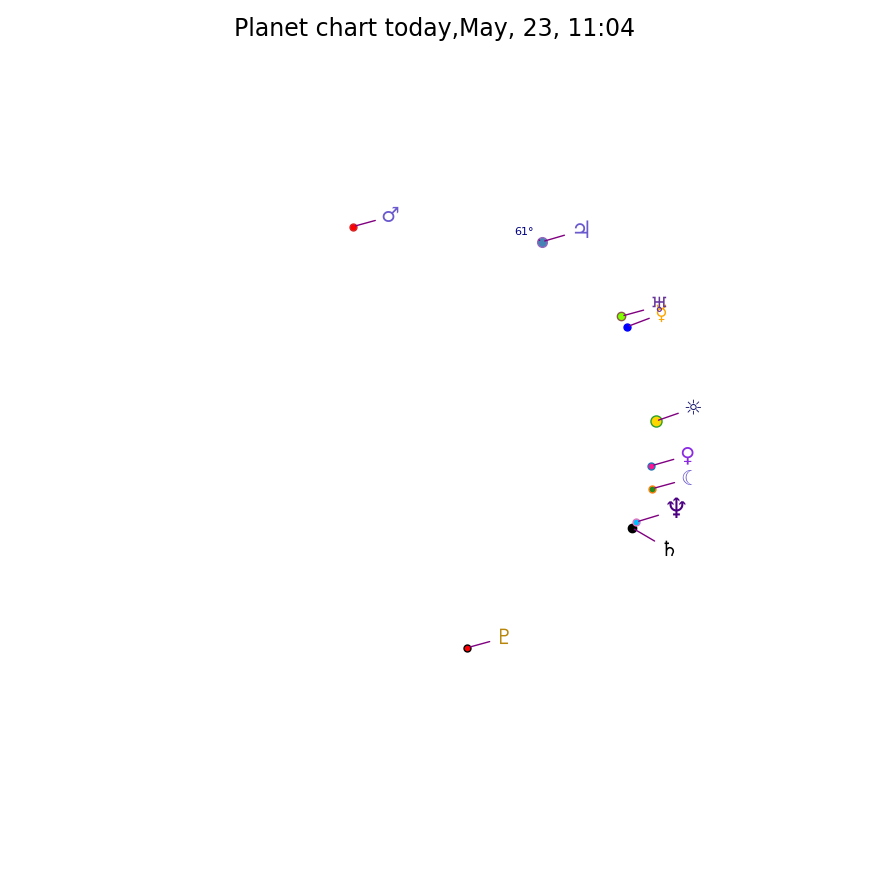
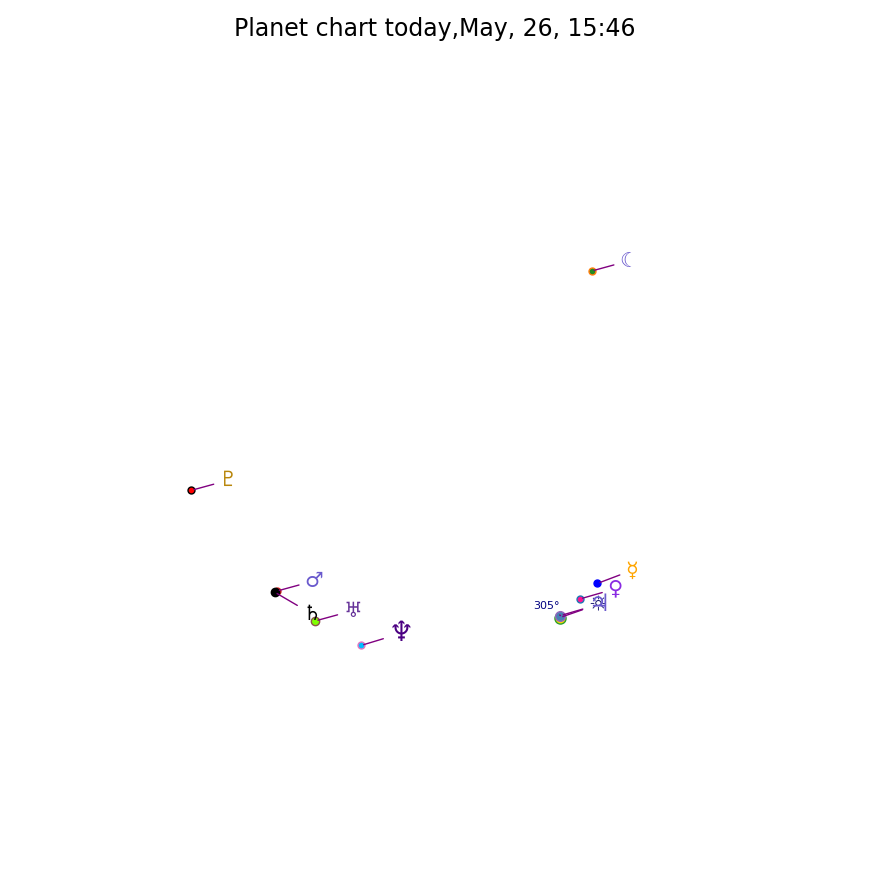
added transit_chart.html, birth_chart.html, and started working on table with degrees

diff --git a/astroplan/templates/birth_chart.html b/astroplan/templates/birth_chart.html
@@ -1,0 +1,35 @@
+{%  load static %}
+
+<!DOCTYPE html>
+<html lang="en">
+<head>
+    <meta charset="UTF-8">
+     <link rel="stylesheet" href="{% static 'styles/style.css' %}">
+    <title>Birth chart</title>
+</head>
+<body>
+
+ <div id="chart">
+       <div id="img-layers">
+
+            <img src="{% static 'plots/birth_plot.png' %}" alt = "birth chart" id="birth-chart">
+<!--           <img src="{% static 'plots/chart.png' %}" alt="plot" id="chart-plot">-->
+
+            <img src="{% static 'images/12.png' %}" alt = "chart axes" id="chart-axes">
+
+
+           <table id="planet-list" >
+                {% for p in r_deg %}
+               <tr>
+                   <th> {{ p }}</th>
+               </tr>
+               {% endfor %}
+           </table>
+        </div>
+
+ </div>>
+
+
+
+</body>
+</html>

diff --git a/astroplan/templates/transit_chart.html b/astroplan/templates/transit_chart.html
@@ -4,27 +4,24 @@
 <html lang="en">
 <head>
     <meta charset="UTF-8">
-    <meta name="viewport" content="width=device-width, initial-scale=1.0">
     <link rel="stylesheet" href="{% static 'styles/style.css' %}">
-    <title>Planets</title>
+    <title>Transits</title>
 </head>
 <body>
 
+ <div id="chart">
 
-    <div id="chart">
+        <div id="img-layers">
 
-        <div id="img-layers"> 
-            <img src="{% static 'plots/chart.png' %}" alt="plot" id="chart-plot">
+            <img src="{% static 'plots/chart.png' %}" alt = "chart" id="transit-chart">
             <img src="{% static 'images/12.png' %}" alt = "chart axes" id="chart-axes">
-
         </div>
 
-        
+
 
     </div>
-   
 
 
-    
+
 </body>
 </html>

diff --git a/astroplan/static/styles/style.css b/astroplan/static/styles/style.css
@@ -38,7 +38,29 @@
     z-index: 1;
 
 
+}
+
+#transit-chart {
+    position: absolute;
+    z-index: 2;
+    margin:auto;
+
+}
 
 
+#birth-chart {
+    position: absolute;
+    z-index: 2;
+    margin:auto;
 
+}
+
+
+#planet-list {
+
+    width: 100%;
+}
+
+th {
+    height: 20px;
 }

diff --git a/astroplan/views.py b/astroplan/views.py
@@ -18,16 +18,19 @@ planet_list = ['sun','mercury','venus', 'moon', 'mars',
                  'jupiter','saturn', 'uranus', 'neptune','pluto']
 
 now = dt.now()
-date = dt(2025, 4,18, 12,00 )
+date = dt(1986, 2,17, 22,20 )
 jd_date = jl.to_jd(date,fmt='jd')
 
 jd = jl.to_jd(now, fmt='jd')
 flags =  swe.FLG_SIDEREAL | swe.SIDM_DELUCE 
 
-sun = swe.calc_ut(jd_date, 0, flags)
+sun = swe.calc_ut(jd, 0, flags)
 print(sun[0][0])
 
+
 moon = swe.calc_ut(jd, 1, flags)
+
+
 
 mercury = swe.calc_ut(jd,2, flags)
 venus = swe.calc_ut(jd, 3, flags)
@@ -62,7 +65,7 @@ def show_chart(request):
     height = 0.9
     ax1 = fig.add_axes([left, bottom, width, height], projection='polar') #center plot
     # ax1.set_theta_offset()
-    mplcursors.cursor(hover=True)
+
     ax1.set_rlim(-130,100)
     ax1.set_theta_direction('counterclockwise')
     ax1.set_rticks([])
@@ -139,8 +142,6 @@ def show_chart(request):
     # plt.grid(True, color='pink') grid on
 
     plt.grid(False)
-    mplcursors.cursor(hover=True)
-
 
     plt.savefig('/home/gaia/PythonProject/astroapp/astroknow/astroplan/static/plots/chart.png')  #aplha setting isn't applied if a plot saved to jpg
     swe.close()
@@ -148,4 +149,246 @@ def show_chart(request):
  
     return render (request,'planets.html')
 
+def show_transit_chart(request):
 
+
+    px = 1 / plt.rcParams['figure.dpi']
+    fig = plt.figure(figsize=(870 * px, 870 * px), facecolor='violet', edgecolor='black')
+    fig.suptitle(f'Transit chart,{now.strftime('%B, %d, %H:%M')}', size=17)
+    fig.patch.set_alpha(0.0)
+
+    left = 0.05
+    bottom = 0.05
+    width = 0.9
+    height = 0.9
+    ax1 = fig.add_axes([left, bottom, width, height], projection='polar')  # center plot
+    # ax1.set_theta_offset()
+
+    ax1.set_rlim(-130, 100)
+    ax1.set_theta_direction('counterclockwise')
+    ax1.set_rticks([])
+    ax1.set_axis_off()  # 'theta ax' is off
+    ax1.set_thetagrids(range(0, 360, 30))
+
+    # ax2 = plt.subplot(1, 1, 1, projection='polar')
+    # ax2.set_theta_offset(np.pi)
+    # ax2.set_rlim(-180,100)
+    # ax2.set_theta_direction(-1)
+    # ax2.set_rticks([])
+
+    ax1.plot(np.deg2rad(venus[0][0]), venus[0][1], marker='o', label='venus', ms=5, mfc='deeppink')
+    ax1.annotate('♀', textcoords='offset points', xytext=(20, 3), xycoords='data',
+                 xy=(np.deg2rad(venus[0][0]), venus[0][1]), fontsize=15, color='blueviolet',
+                 arrowprops=dict(facecolor='purple', arrowstyle='-', edgecolor='purple'))
+
+    ax1.plot(np.deg2rad(moon[0][0]), moon[0][1], marker='o', label='moon', mfc='forestgreen', ms=5)
+    ax1.annotate('☾', textcoords='offset points', xytext=(20, 3), xycoords='data',
+                 xy=(np.deg2rad(moon[0][0]), moon[0][1]), fontsize=15, color='slateblue',
+                 arrowprops=dict(facecolor='purple', arrowstyle='-', edgecolor='purple'))
+
+    ax1.plot(np.deg2rad(sun[0][0]), sun[0][1], marker='o', label='sun', ms=8, mfc='gold')
+    ax1.annotate('☼', textcoords='offset points', xytext=(20, 5), xycoords='data',
+                 xy=(np.deg2rad(sun[0][0]), sun[0][1]), fontsize=15, color='midnightblue',
+                 arrowprops=dict(facecolor='purple', arrowstyle='-', edgecolor='purple'))
+
+    ax1.plot(np.deg2rad(mercury[0][0]), mercury[0][1], 'o:b', label='merc', ms=5)
+    ax1.annotate('☿', textcoords='offset points', xytext=(20, 5), xycoords='data',
+                 xy=(np.deg2rad(mercury[0][0]), mercury[0][1]), fontsize=15, color='orange',
+                 arrowprops=dict(facecolor='purple', arrowstyle='-', edgecolor='purple'))
+
+    ax1.plot(np.deg2rad(mars[0][0]), mars[0][1], marker='o', label='mars', ms=5, mfc='red')
+    ax1.annotate('♂', textcoords='offset points', xytext=(20, 3), xycoords='data',
+                 xy=(np.deg2rad(mars[0][0]), mars[0][1]), fontsize=15, color='slateblue',
+                 arrowprops=dict(facecolor='purple', arrowstyle='-', edgecolor='purple'))
+
+    ax1.plot(np.deg2rad(jupiter[0][0]), jupiter[0][1], 'o', label='jupiter', ms=7, mfc='steelblue')
+    ax1.annotate('♃', textcoords='offset points', xytext=(20, 3), xycoords='data',
+                 xy=(np.deg2rad(jupiter[0][0]), jupiter[0][1]), fontsize=17, color='slateblue',
+                 arrowprops=dict(facecolor='purple', arrowstyle='-', edgecolor='purple'))
+
+    ax1.annotate(f'{round(jupiter[0][0])}°', textcoords='offset points', xytext=(-20, 5), xycoords='data',
+                 xy=(np.deg2rad(jupiter[0][0]), jupiter[0][1]), fontsize=8, color='navy',
+                 arrowprops=dict(facecolor='purple', arrowstyle='-', edgecolor='purple'))
+
+    ax1.plot(np.deg2rad(saturn[0][0]), saturn[0][1], 'o:k', label='saturn', ms=6)
+    ax1.annotate('♄', textcoords='offset points', xytext=(20, -20), xycoords='data',
+                 xy=(np.deg2rad(saturn[0][0]), saturn[0][1]), fontsize=15,
+                 arrowprops=dict(facecolor='purple', arrowstyle='-', edgecolor='purple'))
+
+    ax1.plot(np.deg2rad(uranus[0][0]), uranus[0][1], marker='o', mfc='chartreuse', label='uranus', ms=6)
+    ax1.annotate('♅', textcoords='offset points', xytext=(20, 3), xycoords='data',
+                 xy=(np.deg2rad(uranus[0][0]), uranus[0][1]), fontsize=15, color='rebeccapurple',
+                 arrowprops=dict(facecolor='purple', arrowstyle='-', edgecolor='purple'))
+
+    ax1.plot(np.deg2rad(neptune[0][0]), neptune[0][1], marker='o', label='neptune', ms=5, mfc='deepskyblue')
+    ax1.annotate('♆', textcoords='offset points', xytext=(20, 3), xycoords='data',
+                 xy=(np.deg2rad(neptune[0][0]), neptune[0][1]), fontsize=20, color='indigo',
+                 arrowprops=dict(facecolor='purple', arrowstyle='-', edgecolor='purple'))
+
+    ax1.plot(np.deg2rad(pluto[0][0]), pluto[0][1], 'o:k', mfc='red', label='pluto', ms=5)
+    ax1.annotate('♇', textcoords='offset points', xytext=(20, 3), xycoords='data',
+                 xy=(np.deg2rad(pluto[0][0]), pluto[0][1]), fontsize=15, color='darkgoldenrod',
+                 arrowprops=dict(facecolor='purple', arrowstyle='-', edgecolor='purple'))
+
+    ax1.grid(False)
+    # ax2.set_thetagrids(range(0,360,30), ('')) #each sector 24deg
+
+    # plt.legend(loc='lower right')
+
+    # plt.grid(True, color='pink') grid on
+
+    plt.grid(False)
+
+
+    plt.savefig('/home/gaia/PythonProject/astroapp/astroknow/astroplan/static/plots/transit_plot.png')  # aplha setting isn't applied if a plot saved to jpg
+    swe.close()
+
+    return render(request, 'transit_chart.html')
+
+
+
+def show_birth_chart(request):
+    sun = swe.calc_ut(jd_date, 0, flags)
+    moon = swe.calc_ut(jd_date, 1, flags)
+
+    mercury = swe.calc_ut(jd_date, 2, flags)
+    venus = swe.calc_ut(jd_date, 3, flags)
+    mars = swe.calc_ut(jd_date, 4, flags)
+
+    jupiter = swe.calc_ut(jd_date, 5, flags)
+    saturn = swe.calc_ut(jd_date, 6, flags)
+
+    uranus = swe.calc_ut(jd_date, 7, flags)
+    neptune = swe.calc_ut(jd_date, 8, flags)
+    pluto = swe.calc_ut(jd_date, 9, flags)
+
+    planet_list = [sun, moon, mercury, venus, mars, jupiter,
+                   saturn, uranus, neptune, pluto]
+
+    r_deg = [round(p[0][0],2) for p in planet_list]
+    p = str(r_deg).replace('.', '°').replace(',', '′,')
+
+
+
+    px = 1 / plt.rcParams['figure.dpi']
+    fig = plt.figure(figsize=(870 * px, 870 * px), facecolor='violet', edgecolor='black')
+    fig.suptitle(f'Birth chart,{date.strftime('%B, %d, %H:%M')}', size=17)
+    fig.patch.set_alpha(0.0)
+
+    left = 0.05
+    bottom = 0.05
+    width = 0.9
+    height = 0.9
+    ax1 = fig.add_axes([left, bottom, width, height], projection='polar')  # center plot
+    # ax1.set_theta_offset()
+
+    ax1.set_rlim(-100, 130)
+    ax1.set_theta_direction('counterclockwise')
+    ax1.set_rticks([])
+    ax1.set_axis_off()  # 'theta ax' is off
+    ax1.set_thetagrids(range(0, 360, 30))
+
+    # ax2 = plt.subplot(1, 1, 1, projection='polar')
+    # ax2.set_theta_offset(np.pi)
+    # ax2.set_rlim(-180,100)
+    # ax2.set_theta_direction(-1)
+    # ax2.set_rticks([])
+
+    ax1.plot(np.deg2rad(venus[0][0]), venus[0][1], marker='o', label='venus', ms=5, mfc='deeppink')
+    ax1.annotate('♀', textcoords='offset points', xytext=(20, 3), xycoords='data',
+                 xy=(np.deg2rad(venus[0][0]), venus[0][1]), fontsize=15, color='blueviolet',
+                 arrowprops=dict(facecolor='purple', arrowstyle='-', edgecolor='purple'))
+
+    ax1.plot(np.deg2rad(moon[0][0]), moon[0][1], marker='o', label='moon', mfc='forestgreen', ms=5)
+    ax1.annotate('☾', textcoords='offset points', xytext=(20, 3), xycoords='data',
+                 xy=(np.deg2rad(moon[0][0]), moon[0][1]), fontsize=15, color='slateblue',
+                 arrowprops=dict(facecolor='purple', arrowstyle='-', edgecolor='purple'))
+
+    ax1.plot(np.deg2rad(sun[0][0]), sun[0][1], marker='o', label='sun', ms=8, mfc='gold')
+    ax1.annotate('☼', textcoords='offset points', xytext=(20, 5), xycoords='data',
+                 xy=(np.deg2rad(sun[0][0]), sun[0][1]), fontsize=15, color='midnightblue',
+                 arrowprops=dict(facecolor='purple', arrowstyle='-', edgecolor='purple'))
+
+    ax1.plot(np.deg2rad(mercury[0][0]), mercury[0][1], 'o:b', label='merc', ms=5)
+    ax1.annotate('☿', textcoords='offset points', xytext=(20, 5), xycoords='data',
+                 xy=(np.deg2rad(mercury[0][0]), mercury[0][1]), fontsize=15, color='orange',
+                 arrowprops=dict(facecolor='purple', arrowstyle='-', edgecolor='purple'))
+
+    ax1.plot(np.deg2rad(mars[0][0]), mars[0][1], marker='o', label='mars', ms=5, mfc='red')
+    ax1.annotate('♂', textcoords='offset points', xytext=(20, 3), xycoords='data',
+                 xy=(np.deg2rad(mars[0][0]), mars[0][1]), fontsize=15, color='slateblue',
+                 arrowprops=dict(facecolor='purple', arrowstyle='-', edgecolor='purple'))
+
+    ax1.plot(np.deg2rad(jupiter[0][0]), jupiter[0][1], 'o', label='jupiter', ms=7, mfc='steelblue')
+    ax1.annotate('♃', textcoords='offset points', xytext=(20, 3), xycoords='data',
+                 xy=(np.deg2rad(jupiter[0][0]), jupiter[0][1]), fontsize=17, color='slateblue',
+                 arrowprops=dict(facecolor='purple', arrowstyle='-', edgecolor='purple'))
+
+    ax1.annotate(f'{round(jupiter[0][0])}°', textcoords='offset points', xytext=(-20, 5), xycoords='data',
+                 xy=(np.deg2rad(jupiter[0][0]), jupiter[0][1]), fontsize=8, color='navy',
+                 arrowprops=dict(facecolor='purple', arrowstyle='-', edgecolor='purple'))
+
+    ax1.plot(np.deg2rad(saturn[0][0]), saturn[0][1], 'o:k', label='saturn', ms=6)
+    ax1.annotate('♄', textcoords='offset points', xytext=(20, -20), xycoords='data',
+                 xy=(np.deg2rad(saturn[0][0]), saturn[0][1]), fontsize=15,
+                 arrowprops=dict(facecolor='purple', arrowstyle='-', edgecolor='purple'))
+
+    ax1.plot(np.deg2rad(uranus[0][0]), uranus[0][1], marker='o', mfc='chartreuse', label='uranus', ms=6)
+    ax1.annotate('♅', textcoords='offset points', xytext=(20, 3), xycoords='data',
+                 xy=(np.deg2rad(uranus[0][0]), uranus[0][1]), fontsize=15, color='rebeccapurple',
+                 arrowprops=dict(facecolor='purple', arrowstyle='-', edgecolor='purple'))
+
+    ax1.plot(np.deg2rad(neptune[0][0]), neptune[0][1], marker='o', label='neptune', ms=5, mfc='deepskyblue')
+    ax1.annotate('♆', textcoords='offset points', xytext=(20, 3), xycoords='data',
+                 xy=(np.deg2rad(neptune[0][0]), neptune[0][1]), fontsize=20, color='indigo',
+                 arrowprops=dict(facecolor='purple', arrowstyle='-', edgecolor='purple'))
+
+    ax1.plot(np.deg2rad(pluto[0][0]), pluto[0][1], 'o:k', mfc='red', label='pluto', ms=5)
+    ax1.annotate('♇', textcoords='offset points', xytext=(20, 3), xycoords='data',
+                 xy=(np.deg2rad(pluto[0][0]), pluto[0][1]), fontsize=15, color='darkgoldenrod',
+                 arrowprops=dict(facecolor='purple', arrowstyle='-', edgecolor='purple'))
+
+    ax1.grid(False)
+    # ax2.set_thetagrids(range(0,360,30), ('')) #each sector 24deg
+
+    # plt.legend(loc='lower right')
+
+    # plt.grid(True, color='pink') grid on
+
+    plt.grid(False)
+    mplcursors.cursor(hover=True)
+
+    plt.savefig(
+        '/home/gaia/PythonProject/astroapp/astroknow/astroplan/static/plots/birth_plot.png')  # aplha setting isn't applied if a plot saved to jpg
+    swe.close()
+
+    return render(request, 'birth_chart.html', context={'r_deg':r_deg, 'p':p})
+
+
+sun = swe.calc_ut(jd_date, 0, flags)
+moon = swe.calc_ut(jd_date, 1, flags)
+
+mercury = swe.calc_ut(jd_date, 2, flags)
+venus = swe.calc_ut(jd_date, 3, flags)
+mars = swe.calc_ut(jd_date, 4, flags)
+
+jupiter = swe.calc_ut(jd_date, 5, flags)
+saturn = swe.calc_ut(jd_date, 6, flags)
+
+uranus = swe.calc_ut(jd_date, 7, flags)
+neptune = swe.calc_ut(jd_date, 8, flags)
+pluto = swe.calc_ut(jd_date, 9, flags)
+
+planet_list = [sun, moon, mercury, venus, mars, jupiter,
+                   saturn, uranus, neptune, pluto]
+# for p in planet_list:
+#     r = round(p[0][0])
+#     print(r)
+
+
+r_deg = [round(s[0][0],2) for s in planet_list]
+
+s = str(r_deg).replace('.','°').replace(',','′,')
+
+
+print(s)

diff --git a/astroplan/urls.py b/astroplan/urls.py
@@ -5,4 +5,6 @@ from . import views
 urlpatterns = [
     path('chart/', views.chart, name='chart'),
     path('show_chart/', views.show_chart, name='showed chart'),
+    path('transit_chart/', views.show_transit_chart, name='transit chart'),
+    path('birth_chart/', views.show_birth_chart, name='birth chart')
 ]
